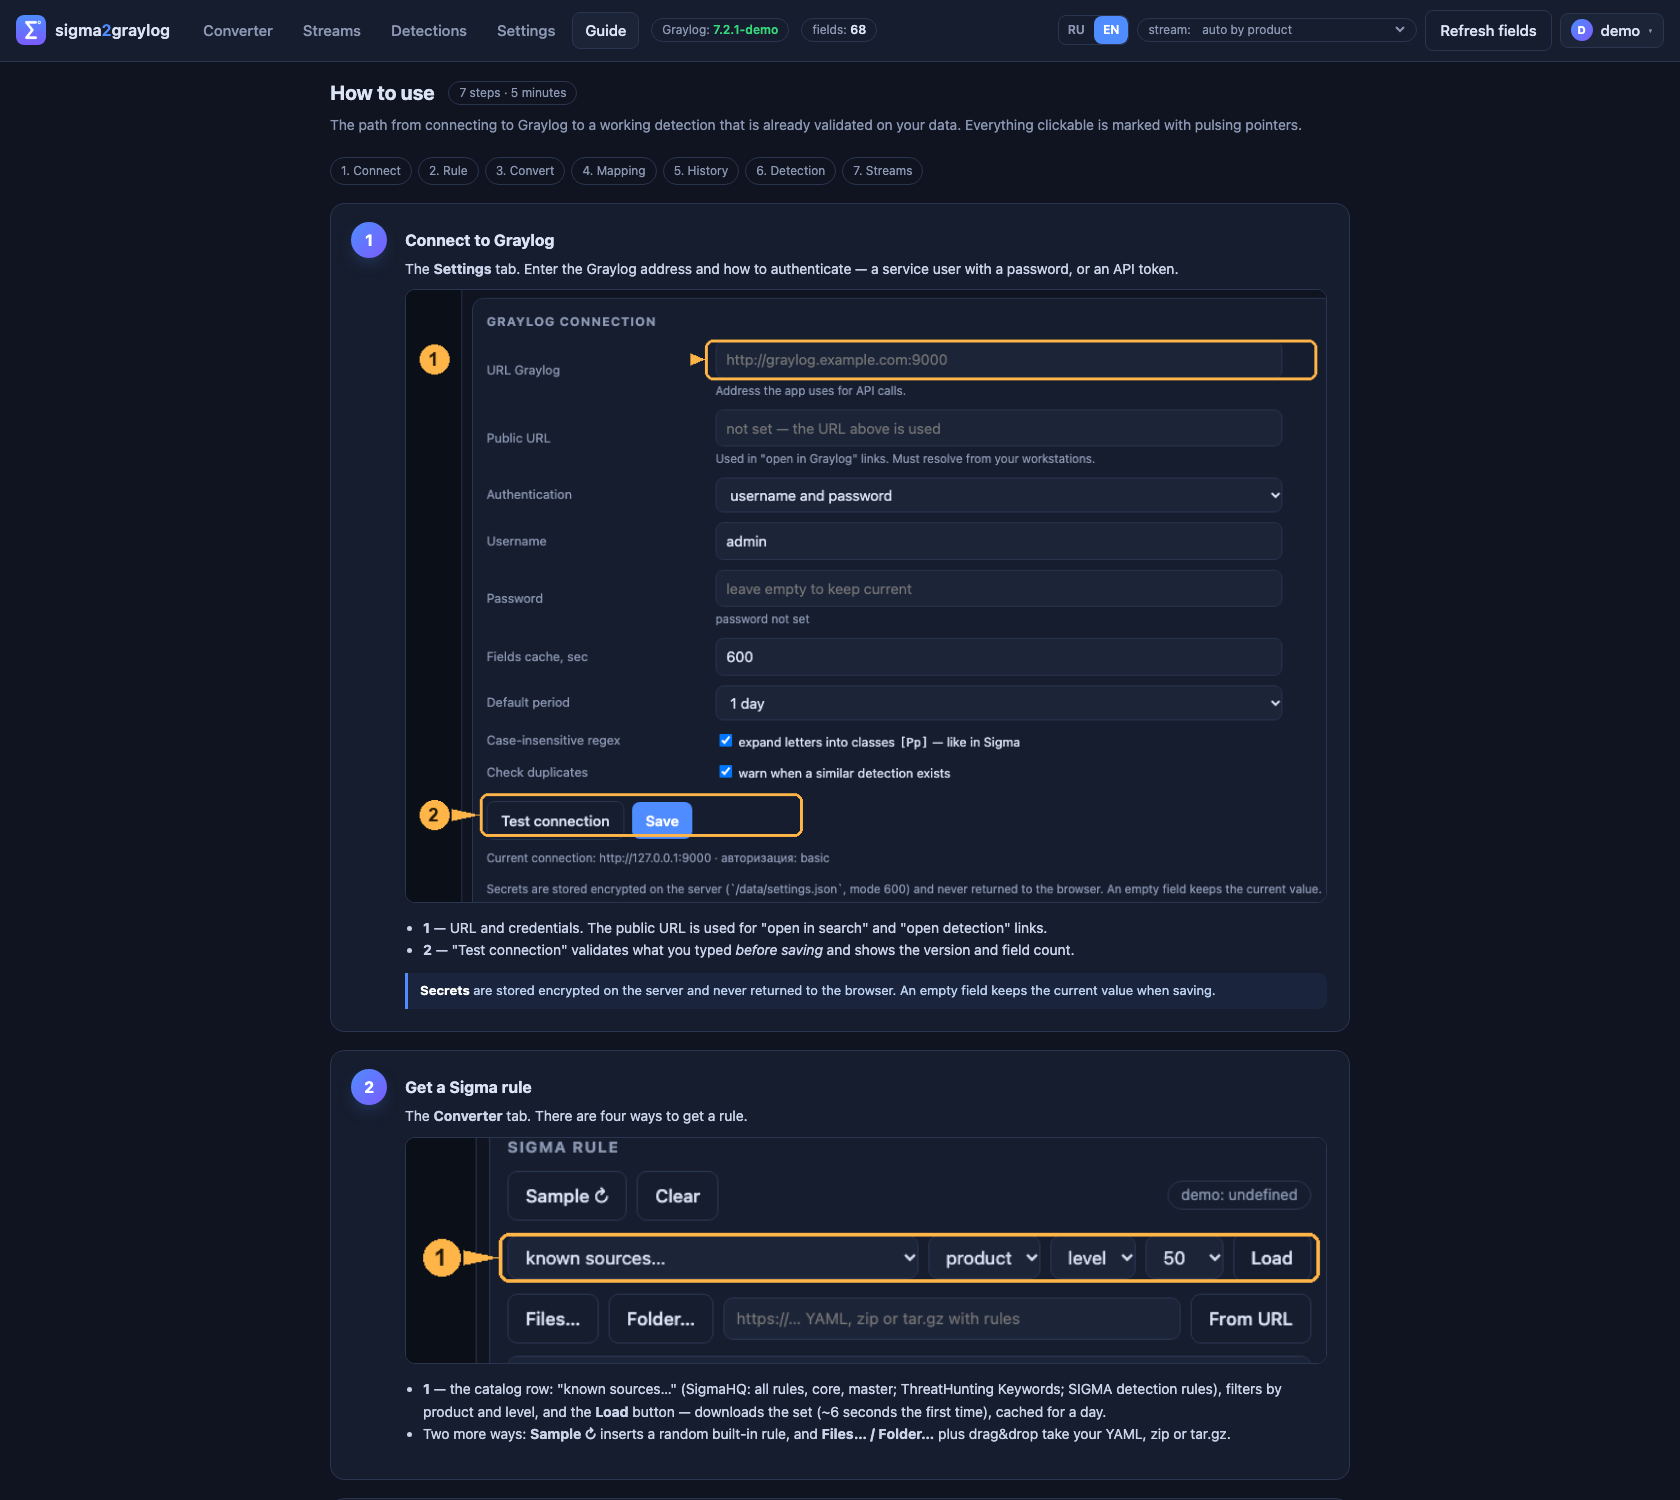
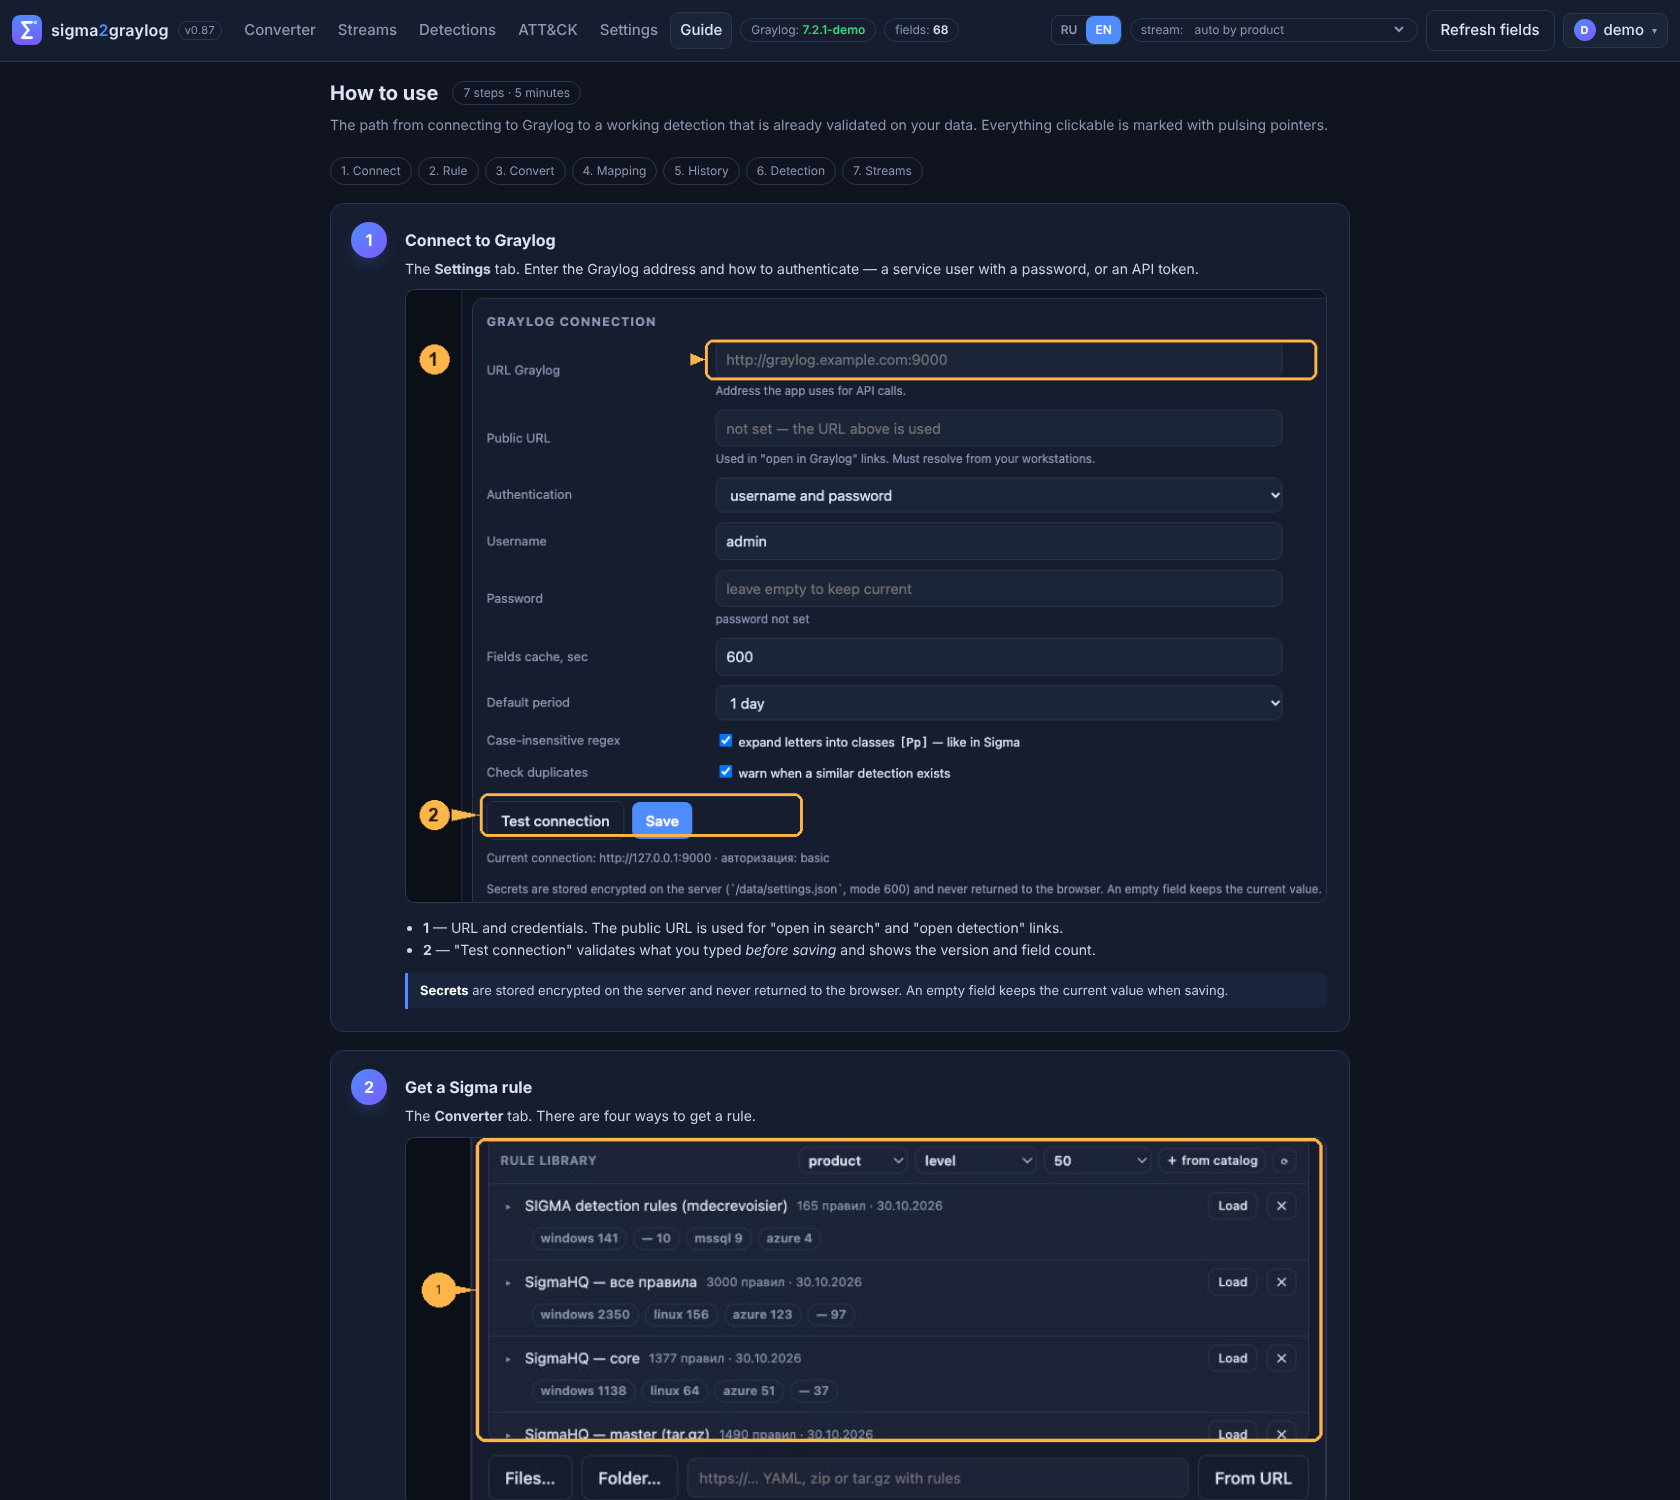
Обновлены скриншоты, вкладка ATT&CK в README, компактная шапка, теги ATT&CK в демо-правилах (v0.88)

diff --git a/app/static/index.html b/app/static/index.html
@@ -21,7 +21,7 @@
   *{box-sizing:border-box}
   [hidden]{display:none !important}
   body{margin:0;background:var(--bg);color:var(--text);font:15px/1.5 -apple-system,BlinkMacSystemFont,"Segoe UI",Roboto,sans-serif}
-  header{display:flex;align-items:center;gap:12px;padding:10px 16px;background:var(--panel);border-bottom:1px solid var(--line);flex-wrap:wrap;row-gap:8px;position:relative;z-index:40}
+  header{display:flex;align-items:center;gap:8px;padding:10px 12px;background:var(--panel);border-bottom:1px solid var(--line);flex-wrap:wrap;row-gap:8px;position:relative;z-index:40}
   .lib{margin-bottom:12px;border:1px solid var(--line);border-radius:10px;background:var(--panel2);overflow:hidden}
   .lib-head{display:flex;align-items:center;gap:6px;flex-wrap:wrap;padding:8px 10px;
     font-size:12px;font-weight:600;color:var(--muted);text-transform:uppercase;letter-spacing:.04em}
@@ -133,9 +133,9 @@
   .probe{font-size:12px;margin-top:6px;color:var(--muted)}
   .probe b{color:var(--ok)}
   a{color:var(--accent)}
-  nav.tabs{display:flex;gap:4px;margin-left:8px;flex-wrap:nowrap}
+  nav.tabs{display:flex;gap:2px;margin-left:4px;flex-wrap:nowrap}
   nav.tabs button{white-space:nowrap}
-  nav.tabs button{background:transparent;border:1px solid transparent;color:var(--muted);font-weight:500;padding:6px 12px;border-radius:8px}
+  nav.tabs button{background:transparent;border:1px solid transparent;color:var(--muted);font-weight:500;padding:6px 9px;border-radius:8px}
   nav.tabs button:hover{color:var(--text);background:rgba(255,255,255,.04)}
   nav.tabs button.active{background:var(--panel2);border-color:var(--line);color:var(--text)}
   .view{padding:16px 20px}
@@ -244,7 +244,7 @@
     <button data-view="convert" class="active">Конвертер</button>
     <button data-view="streams">Стримы</button>
     <button data-view="detect">Детекты</button>
-    <button data-view="attack">Покрытие ATT&amp;CK</button>
+    <button data-view="attack" title="Покрытие ATT&amp;CK алертами Graylog">ATT&amp;CK</button>
     <button data-view="settings">Настройки</button>
     <button data-view="guide">Руководство</button>
   </nav>
@@ -2063,7 +2063,7 @@ async function demoAutoFill() {
     const fixed = new URLSearchParams(location.search).get('sample');
     const s = await api('/api/samples/random' + (fixed !== null ? `?index=${encodeURIComponent(fixed)}` : ''));
     $('#sigma').value = s.yaml;
-    setSource('демо: ' + s.title);
+    setSource('демо: ' + (s.source || s.title || ''));
     await doConvert();
     // ?history=1 — раскрыть прогон по истории (для скриншотов руководства)
     if (new URLSearchParams(location.search).get('history') === '1') {

diff --git a/app/static/js/i18n.js b/app/static/js/i18n.js
@@ -70,6 +70,7 @@
     'Только покрытые техники': 'Covered techniques only',
     'Только основная техника определения': 'Primary technique of a definition only',
     'Слой для Navigator': 'Navigator layer',
+    'доп. техника': 'additional technique',
     'поиск по названию или описанию': 'search by name or description',
     'Описание': 'Description',
     'Название': 'Title',
@@ -169,6 +170,7 @@
     'без срабатываний': 'never matched',
     'срабатывали': 'matched',
     'всего: ': 'total: ',
+    'всего:': 'total:',
     '· показано: ': '· shown: ',
     'стримов с событиями: ': 'streams with events: ',
     'выбрано: ': 'selected: ',
@@ -343,6 +345,8 @@
   const PATTERNS = [
     [/^Не покрыто (\d+) типовых полей\.\s*Для них можно выбрать поле вручную в таблице — маппинг сохраняется для этого стрима и используется при конвертации правил этого продукта\.$/s, 'No coverage for $1 common fields. You can pick a field manually in the table — the mapping is saved for this stream and used when converting rules for this product.'],
     [/^Правил: (\d+), полей: (\d+)$/, 'Rules: $1, fields: $2'],
+    [/^(\d+) из (\d+) с привязкой · техник: (\d+)$/, '$1 of $2 mapped · techniques: $3'],
+    [/^Без привязки к технике: (\d+)$/, 'Not mapped to a technique: $1'],
     [/^покрыто (\d+) из (\d+)$/, 'covered $1 of $2'],
     [/^создано: (\d+), пропущено дублей: (\d+), ошибок: (\d+)$/, 'created: $1, skipped duplicates: $2, errors: $3'],
     [/^стр\. (\d+) из (\d+)$/, 'page $1 of $2'],

diff --git a/app/demo.py b/app/demo.py
@@ -89,6 +89,19 @@ DEMO_DEFINITIONS = [
      'cs-host:/.*\\.(top|xyz)/ AND sc-status:200', "2026-10-22T13:12:00Z"),
 ]
 
+# техники ATT&CK демо-детектов (по русскому названию): (все техники, основная)
+DEMO_ATTACK = {
+    "PowerShell с закодированной командой": (["T1059.001", "T1027.010"], "T1059.001"),
+    "Mimikatz в командной строке": (["T1003.001"], "T1003.001"),
+    "Загрузка через certutil": (["T1105", "T1218"], "T1105"),
+    "Выгрузка NTDS через ntdsutil": (["T1003.003"], "T1003.003"),
+    "Подозрительный rundll32": (["T1218.011"], "T1218.011"),
+    "Изменение sudoers": (["T1548.003"], "T1548.003"),
+    "Обратный шелл через bash": (["T1059.004"], "T1059.004"),
+    "Запуск шелла из нестандартного каталога": (["T1059.004"], "T1059.004"),
+    "Подбор пароля FreeIPA": (["T1110.001"], "T1110.001"),
+}
+
 DEMO_SAMPLES = [
     ("demo-windows", "Process Create: RuleName: - UtcTime: 2026-10-29 07:17:25.450 "
                      "ProcessGuid: {a1b2} Image: C:\\Windows\\System32\\WindowsPowerShell\\v1.0\\powershell.exe"),
@@ -104,6 +117,7 @@ class FakeGraylog:
     def __init__(self):
         self._created: list[dict] = []
         self._deleted: set[str] = set()
+        self._attack: dict[str, tuple[list[str], str | None]] = {}
 
     # --- служебное ---------------------------------------------------------
     def close(self):  # noqa: D401 - интерфейс клиента
@@ -192,17 +206,28 @@ class FakeGraylog:
                                            (stream_ids or ["demo-windows"])[0],
                                            query, None)
         self._created.append(payload)
+        if attack:
+            ids = [t for t in (attack.get("techniques") or []) if isinstance(t, str)]
+            self._attack[payload["id"]] = (ids, ids[0] if ids else None)
         return {"id": payload["id"], "title": title}
 
     def attack_definitions(self, max_items: int = 1000) -> list[dict]:
-        demo = {"Windows - PowerShell": (["T1059.001", "T1105"], "T1059.001"),
-                "Windows - Подбор пароля": (["T1110"], "T1110"),
-                "Windows - Очистка журнала": (["T1685.005"], "T1685.005")}
-        out = [{"id": f"demo-{i}", "title": t, "state": "ENABLED", "techniques": ids, "primary": p}
-               for i, (t, (ids, p)) in enumerate(demo.items())]
-        out.append({"id": "demo-x", "title": "Без привязки", "state": "ENABLED",
-                    "techniques": [], "primary": None})
-        return out
+        out = []
+        for row in DEMO_DEFINITIONS:
+            ru = row[0][0] if isinstance(row[0], tuple) else row[0]
+            payload = self._definition_payload(*row)
+            if payload["id"] in self._deleted:
+                continue
+            ids, primary = DEMO_ATTACK.get(ru, ([], None))
+            out.append({"id": payload["id"], "title": payload["title"], "state": "ENABLED",
+                        "techniques": ids, "primary": primary})
+        for item in self._created:
+            if item["id"] in self._deleted:
+                continue
+            ids, primary = self._attack.get(item["id"], ([], None))
+            out.append({"id": item["id"], "title": item["title"], "state": "ENABLED",
+                        "techniques": ids, "primary": primary})
+        return out[:max_items]
 
     def delete_event_definition(self, definition_id: str) -> None:
         self._deleted.add(definition_id)

diff --git a/app/samples.py b/app/samples.py
@@ -31,6 +31,10 @@ detection:
     condition: selection and not filter_main_generic
 falsepositives:
     - Легитимные скрипты администрирования
+tags:
+    - attack.execution
+    - attack.t1059.001
+    - attack.t1027.010
 level: high"""
     },
     {
@@ -52,6 +56,9 @@ detection:
     condition: selection
 falsepositives:
     - Тестирование пентеста
+tags:
+    - attack.credential-access
+    - attack.t1003.001
 level: critical"""
     },
     {
@@ -73,6 +80,9 @@ detection:
     condition: all of selection*
 falsepositives:
     - Корпоративные скрипты обновления
+tags:
+    - attack.command-and-control
+    - attack.t1105
 level: medium"""
     },
     {
@@ -94,6 +104,9 @@ detection:
     condition: selection
 falsepositives:
     - Установщики приложений
+tags:
+    - attack.stealth
+    - attack.t1218.011
 level: medium"""
     },
     {
@@ -112,6 +125,9 @@ detection:
     condition: selection
 falsepositives:
     - Обслуживание контроллера домена
+tags:
+    - attack.credential-access
+    - attack.t1003.003
 level: critical"""
     },
     {
@@ -132,6 +148,9 @@ detection:
     condition: selection
 falsepositives:
     - Административные скрипты
+tags:
+    - attack.persistence
+    - attack.t1053.005
 level: medium"""
     },
     {
@@ -153,6 +172,9 @@ detection:
     condition: selection
 falsepositives:
     - Скрипты резервного копирования
+tags:
+    - attack.execution
+    - attack.t1059.004
 level: critical"""
     },
     {
@@ -172,6 +194,9 @@ detection:
     condition: selection
 falsepositives:
     - Управление конфигурацией (Ansible/puppet)
+tags:
+    - attack.privilege-escalation
+    - attack.t1548.003
 level: high"""
     },
     {
@@ -192,6 +217,9 @@ detection:
     condition: selection
 falsepositives:
     - Легитимные сервисы
+tags:
+    - attack.execution
+    - attack.t1059.004
 level: medium"""
     },
     {
@@ -210,6 +238,9 @@ detection:
     condition: selection
 falsepositives:
     - Антивирусы и EDR
+tags:
+    - attack.credential-access
+    - attack.t1003.001
 level: high"""
     },
     {
@@ -231,6 +262,9 @@ detection:
     condition: selection and not filter_system
 falsepositives:
     - Скрипты инвентаризации
+tags:
+    - attack.discovery
+    - attack.t1033
 level: low"""
     },
     {
@@ -251,6 +285,9 @@ detection:
     condition: selection
 falsepositives:
     - Средства управления конфигурацией
+tags:
+    - attack.execution
+    - attack.t1047
 level: medium"""
     },
 ]

diff --git a/app/version.py b/app/version.py
@@ -3,4 +3,4 @@
 Увеличивайте при каждом обновлении и используйте тот же номер как тег образа
 (`localhost/sigma2graylog:0.86`), тогда по интерфейсу видно, какая сборка запущена.
 """
-__version__ = "0.87"
+__version__ = "0.88"

diff --git a/README.md b/README.md
@@ -42,6 +42,12 @@
 
 ![Стримы](docs/screenshots/02-streams.png)
 
+### Покрытие MITRE ATT&CK
+
+Вкладка **«ATT&CK»** показывает матрицу тактик и техник, покрытых алертами Graylog; слой можно выгрузить для ATT&CK Navigator. Подробнее — [docs/ATTACK.md](docs/ATTACK.md).
+
+![Покрытие ATT&CK](docs/screenshots/07-attack.png)
+
 ## Встроенное руководство
 
 В приложении есть вкладка **«Руководство»** — путь от подключения до работающего детекта за

diff --git a/README.en.md b/README.en.md
@@ -59,6 +59,12 @@ requested language), the built-in guide with its illustrations, and demo-mode sa
 
 ![Streams](docs/screenshots/en/02-streams.png)
 
+### MITRE ATT&CK coverage
+
+The **ATT&CK** tab shows a matrix of tactics and techniques covered by Graylog alerts; the layer can be exported for ATT&CK Navigator. See [docs/ATTACK.md](docs/ATTACK.md).
+
+![ATT&CK coverage](docs/screenshots/en/08-attack.png)
+
 ## Quick start (demo, no Graylog needed)
 
 ```bash
